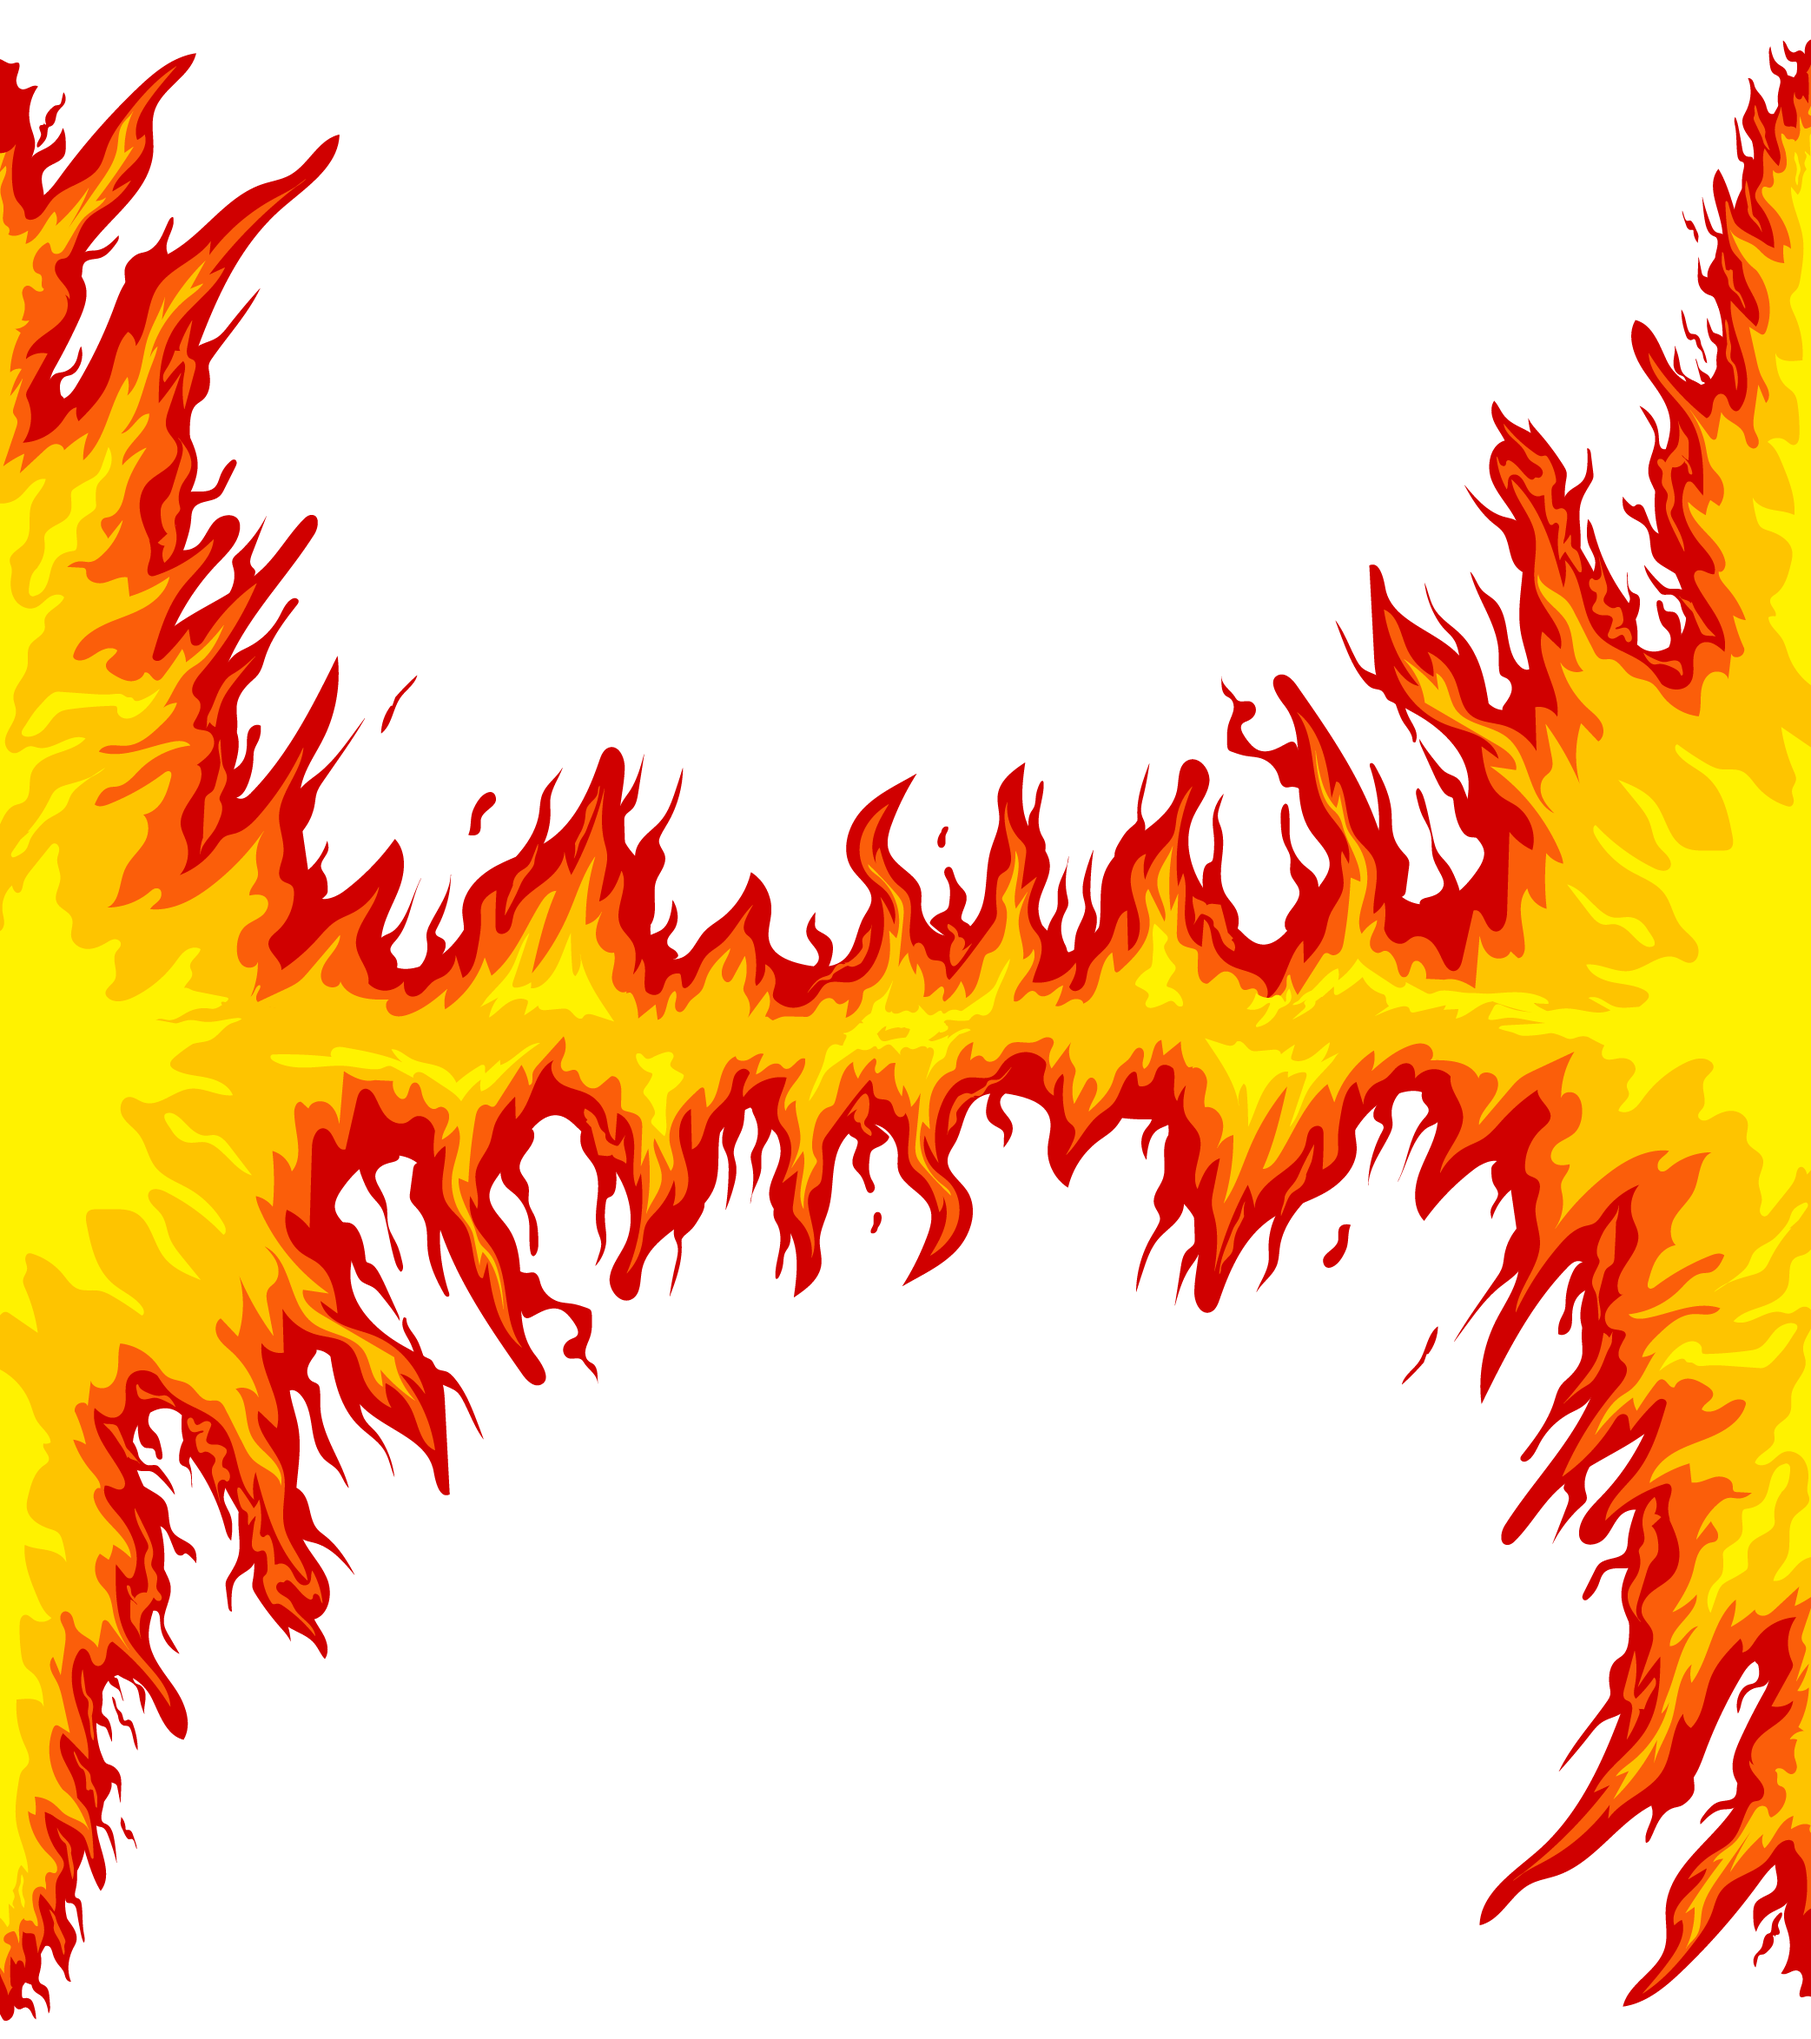
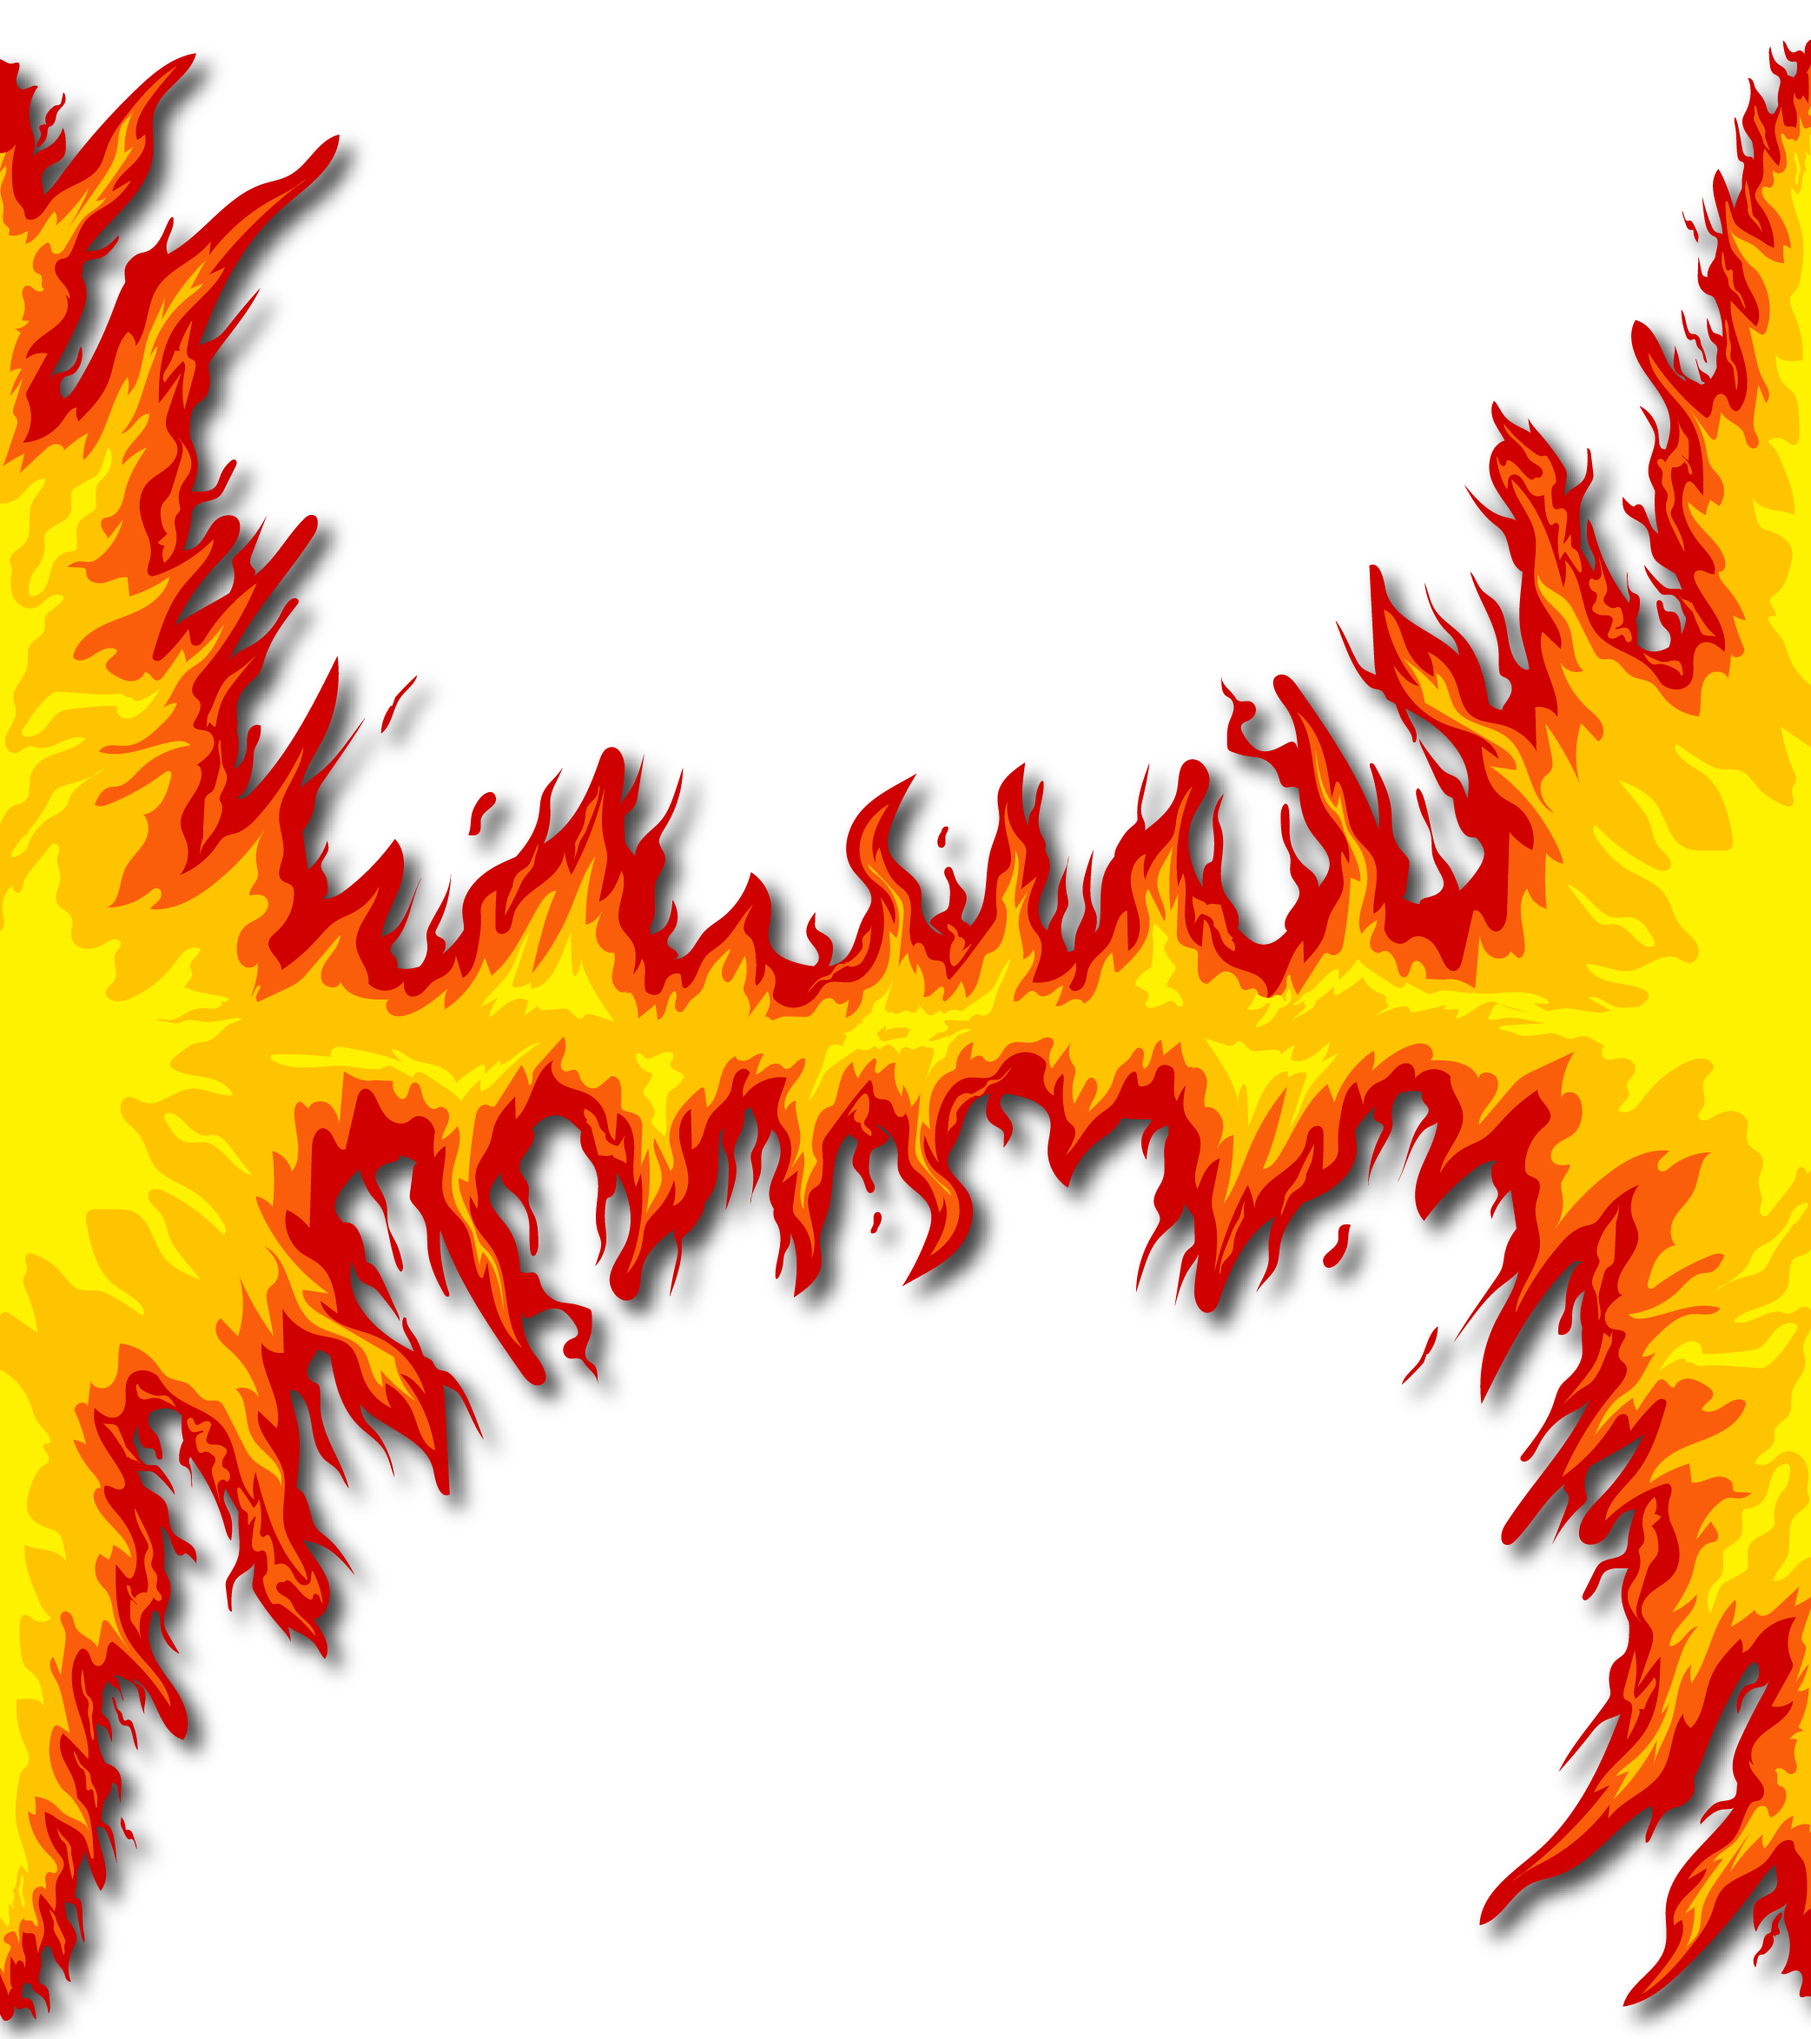
menambahkan drop shadow di page illustrator

diff --git a/src/components/headers/IllustratorHeader/IllustratorHeader.tsx b/src/components/headers/IllustratorHeader/IllustratorHeader.tsx
@@ -9,6 +9,7 @@ const HerosectionComponent = () => {
   const xHellcat = useTransform(scrollYProgress, [0, 0.5], [0, -300]);
   const xMoon = useTransform(scrollYProgress, [0, 0.5], [0, 300]);
   const opacity = useTransform(scrollYProgress, [0, 0.3], [1, 0]);
+
   return (
     <header className="w-full h-screen relative">
       {/* TEXT */}
@@ -25,6 +26,7 @@ const HerosectionComponent = () => {
           </span>
         </motion.p>
       </section>
+
       {/* BACKGROUND */}
       <section className="h-screen w-full absolute inset-0">
         {/* container karakter */}
@@ -39,6 +41,7 @@ const HerosectionComponent = () => {
               src="/asset/pageIllustrator/hellcatmobil.webp"
               alt="background"
               fill
+              unoptimized
             />
           </motion.figure>
           <motion.figure
@@ -51,6 +54,7 @@ const HerosectionComponent = () => {
               src="/asset/pageIllustrator/moonknight.webp"
               alt="background"
               fill
+              unoptimized
             />
           </motion.figure>
         </section>
@@ -73,6 +77,7 @@ const HerosectionComponent = () => {
             src="/asset/pageIllustrator/bgapiv2.webp"
             alt="background"
             fill
+            unoptimized
           />
         </figure>
       </section>
